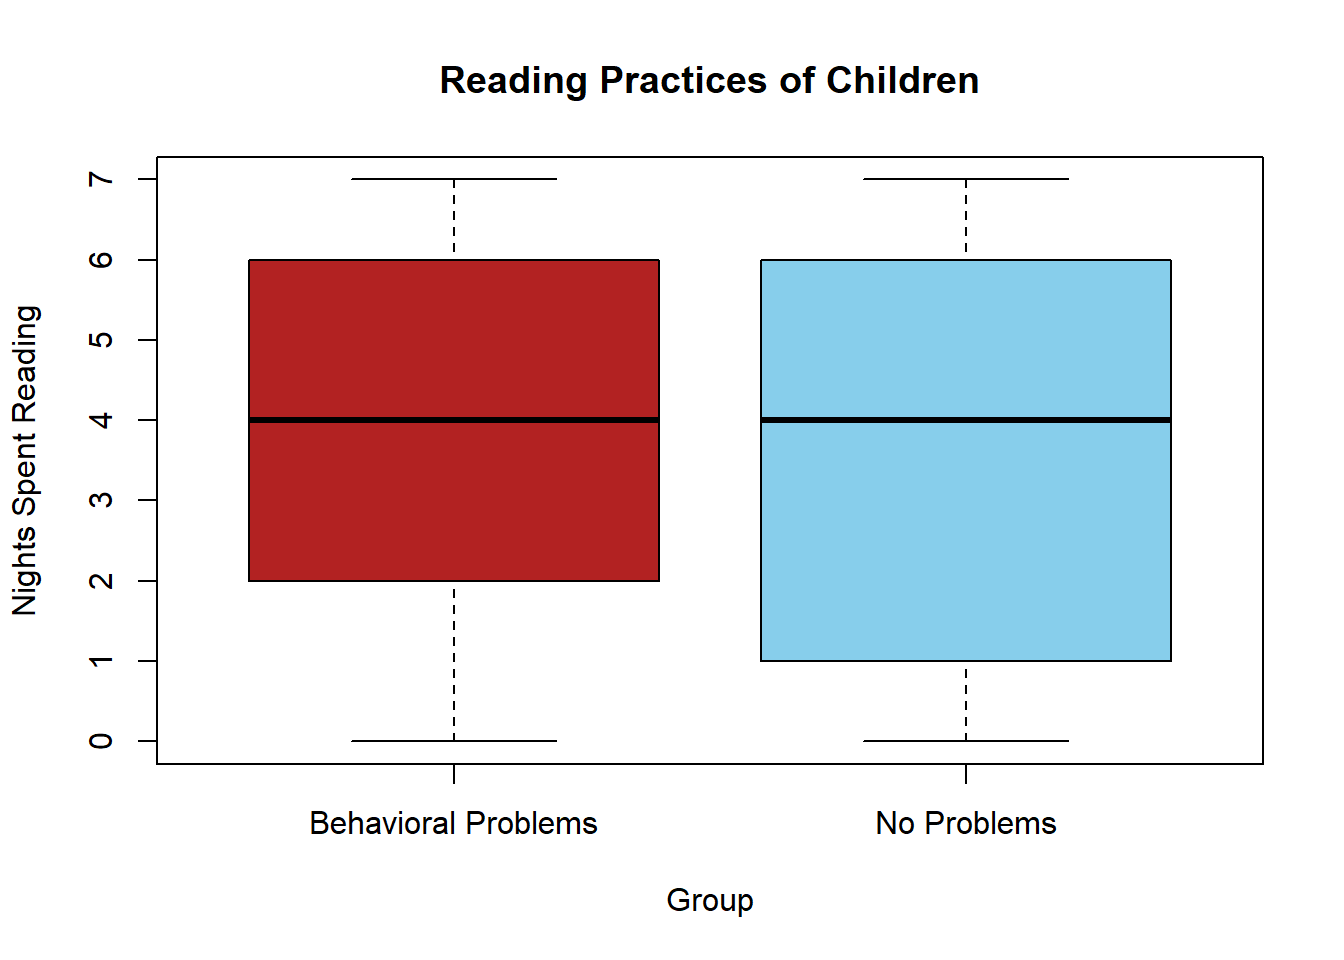
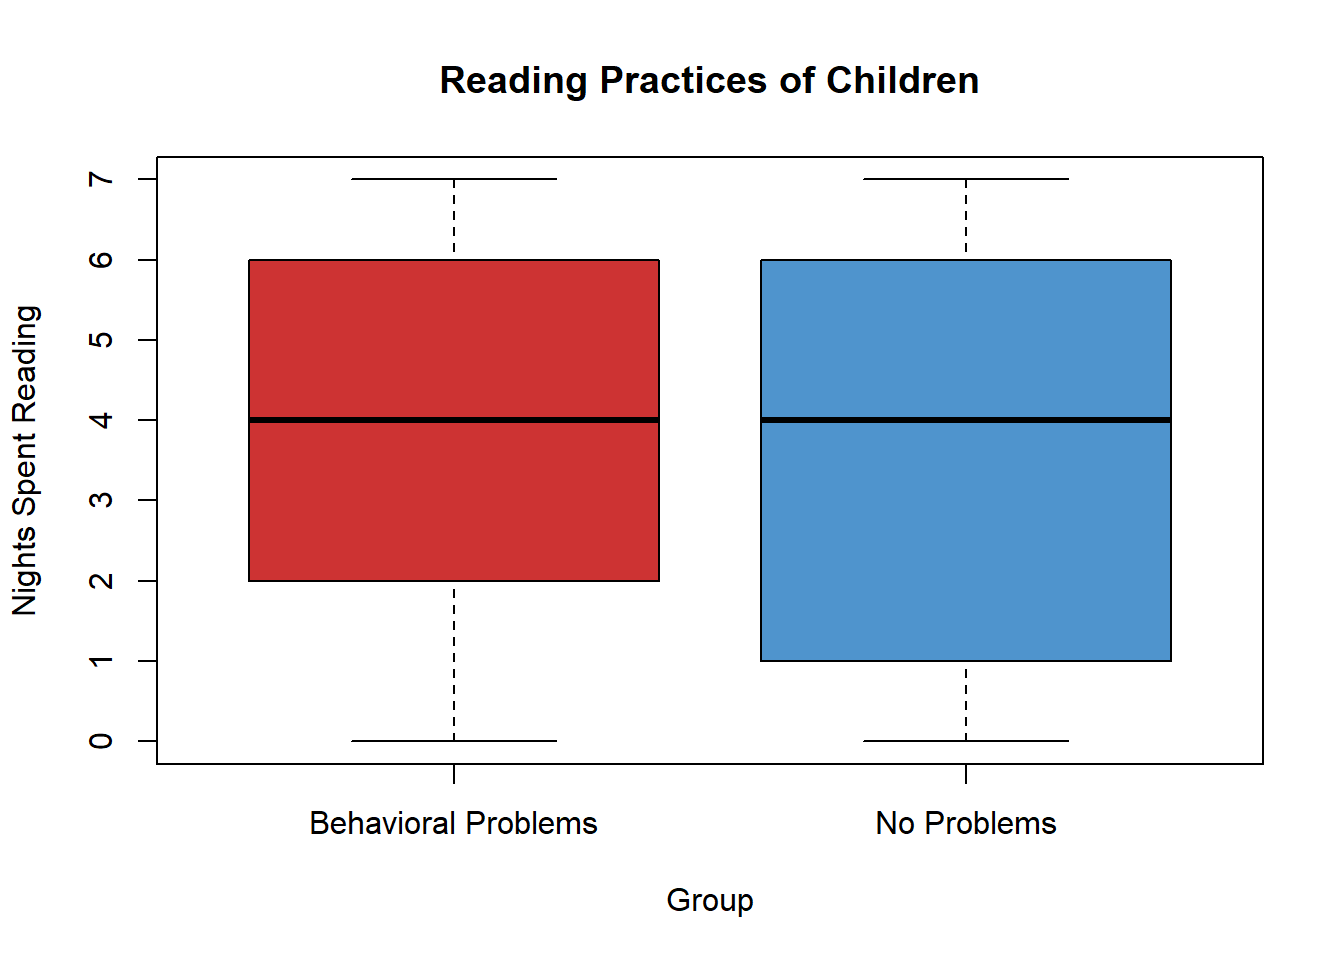
Adjusted colors

Changed region(s): [[0.5625, 0.25, 0.875, 0.6875], [0.1875, 0.25, 0.5, 0.625]]

diff --git a/docs/Lesson13.html b/docs/Lesson13.html
@@ -588,7 +588,7 @@ R Instructions
 <p><strong>To Make a Fancier Graph</strong></p>
 <p>To make the graph look a little nicer we could use the following options.</p>
 <ul>
-<li>the <code>col=...</code> statement provide colors, either one color for both boxes in the plot <code>col="skyblue"</code>, or colors for each box in the plot, <code>col=c("firebrick","skyblue")</code>.</li>
+<li>the <code>col=...</code> statement provide colors, either one color for both boxes in the plot <code>col="steelblue3"</code>, or colors for each box in the plot, <code>col=c("brown3","steelblue3")</code>.</li>
 <li>the <code>main="a nice title"</code>, allows you to specify a main title for your graph,<br />
 </li>
 <li>the <code>ylab="a nice y-axis label"</code> allows you to specify a y-axis label for your graph,</li>
@@ -596,7 +596,7 @@ R Instructions
 <li>the <code>names=c("label 1", "label 2")</code> statement can be used to give each box a label along the x-axis.</li>
 </ul>
 <pre class="r"><code>boxplot(reading$nights ~ reading$group,
-        col=c(&quot;firebrick&quot;,&quot;skyblue&quot;), 
+        col=c(&quot;brown3&quot;,&quot;steelblue3&quot;), 
         main=&quot;Reading Practices of Children&quot;, 
         ylab=&quot;Number of Nights of Reading&quot;,
         xlab=&quot;Group&quot;,
@@ -833,7 +833,7 @@ favstats(fifa_heart_attacks$heart_attacks ~ fifa_heart_attacks$time_period)</cod
 <a href="javascript:showhide('Q6')"><span style="font-size:8pt;">Show/Hide Solution</span></a>
 <div id="Q6" style="display:none;">
 <p>Side-by-side boxplots are a great way to summarize the data.</p>
-<pre class="r"><code>boxplot(fifa_heart_attacks$heart_attacks ~ fifa_heart_attacks$time_period, col=c(&quot;gray&quot;, &quot;orange&quot;), main=&quot;2006 World Cup \n &quot;)</code></pre>
+<pre class="r"><code>boxplot(fifa_heart_attacks$heart_attacks ~ fifa_heart_attacks$time_period, col=c(&quot;darkolivegreen4&quot;, &quot;tan3&quot;), main=&quot;2006 World Cup \n &quot;)</code></pre>
 <p><img src="Lesson13_files/figure-html/unnamed-chunk-10-1.png" width="672" /></p>
 </div>
 <p> </p>
@@ -1011,7 +1011,7 @@ Answer the following question:
 <p><strong>Make an appropriate graph to illustrate the data</strong></p>
 <pre class="r"><code>boxplot(reading$nights ~ reading$group,
         main=&quot;Reading Practices of Children&quot;,
-        col=c(&quot;firebrick&quot;,&quot;skyblue&quot;), 
+        col=c(&quot;brown3&quot;,&quot;steelblue3&quot;), 
         ylab=&quot;Nights Spent Reading&quot;, 
         xlab=&quot;Group&quot;,
         names=c(&quot;Behavioral Problems&quot;, &quot;No Problems&quot;))</code></pre>
